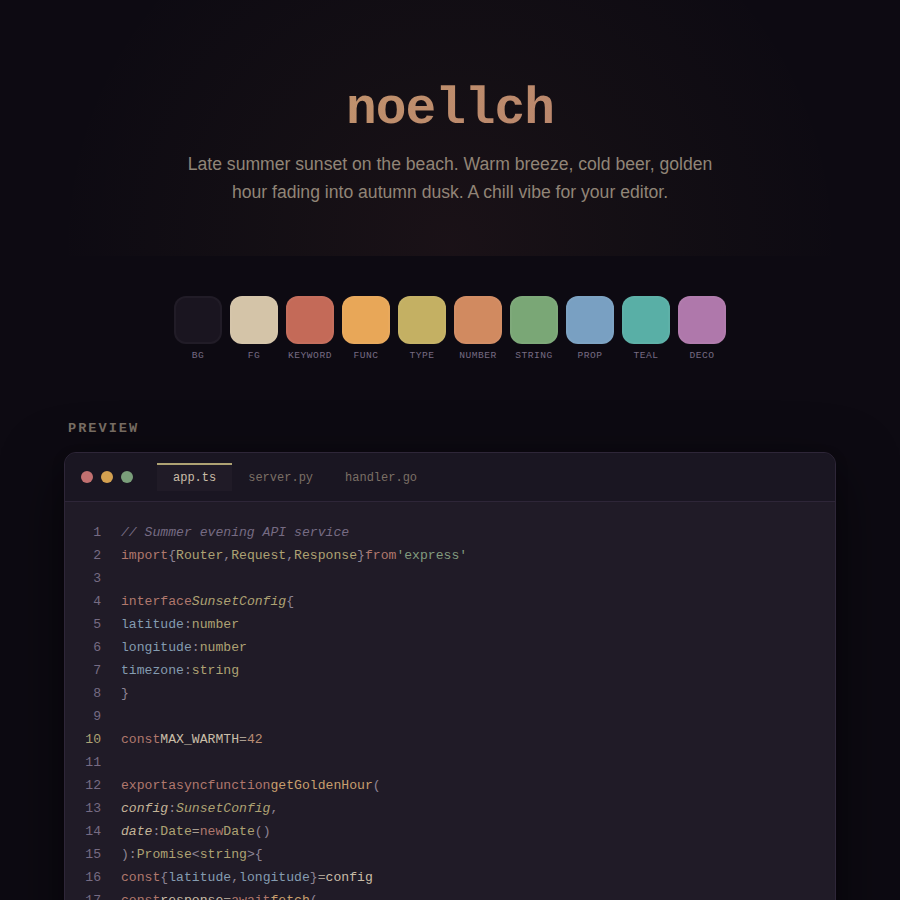
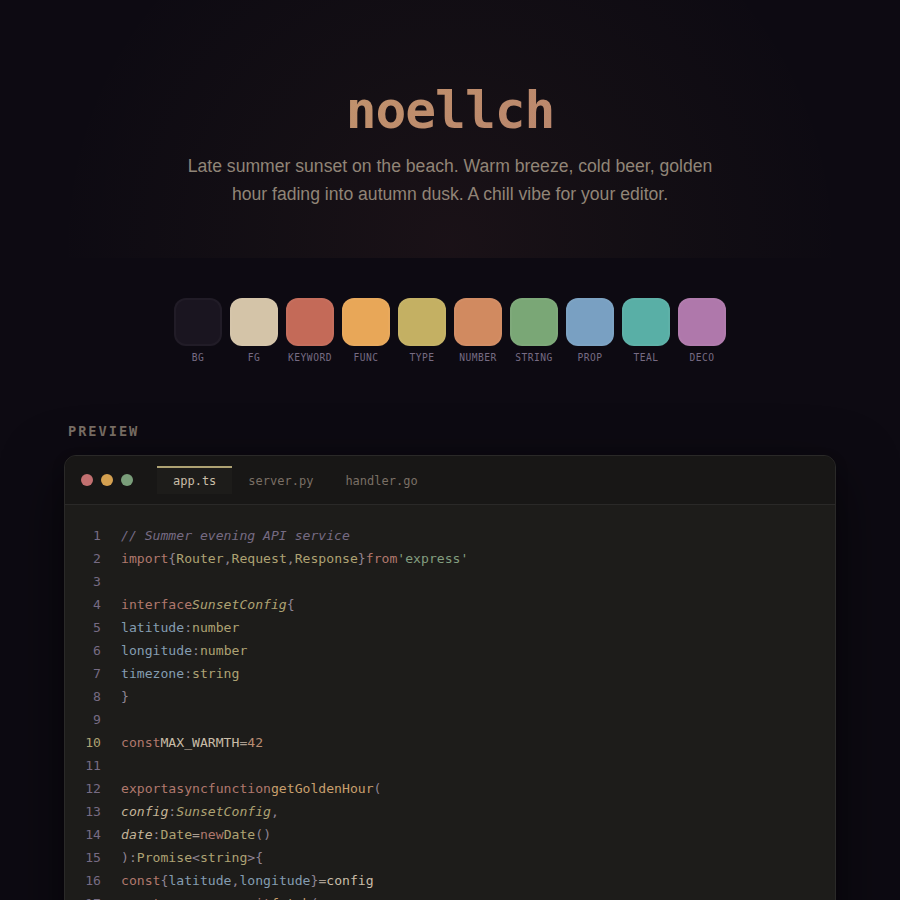
feat: enhance bg

diff --git a/README.md b/README.md
@@ -10,7 +10,7 @@ Desaturated, low-contrast palette — like faded film. Easy on the eyes for long
 
 | Role | Hex |
 |------|-----|
-| Background | `#201b27` |
+| Background | `#1d1c1a` |
 | Foreground | `#c9bda8` |
 | Keyword | `#b0786d` — Terracotta sunset |
 | Function | `#c89f6d` — Golden hour |
